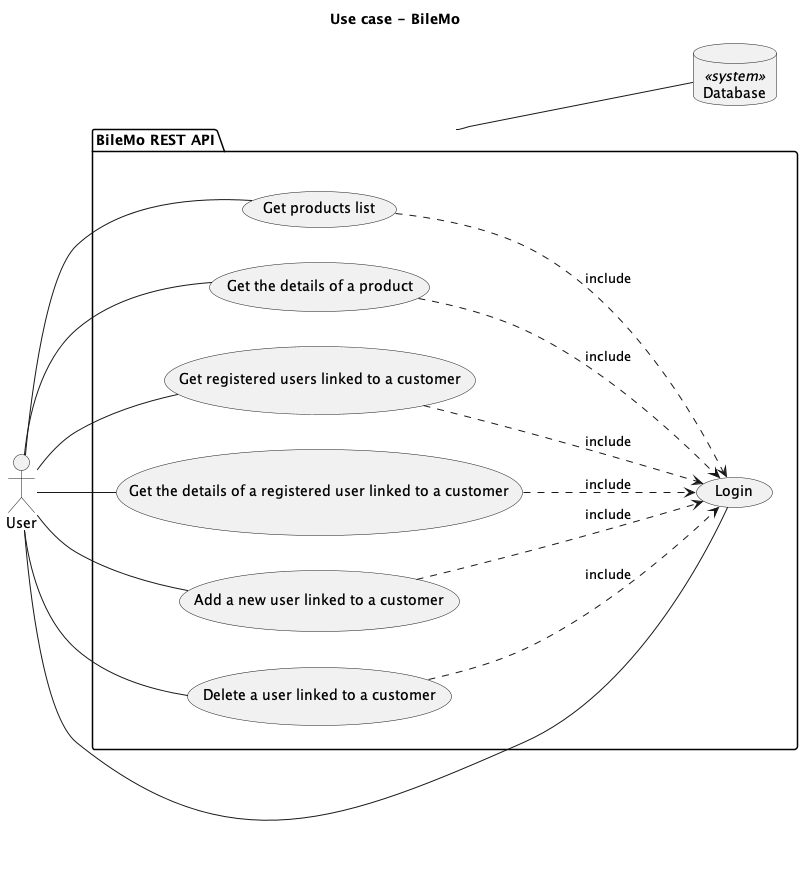
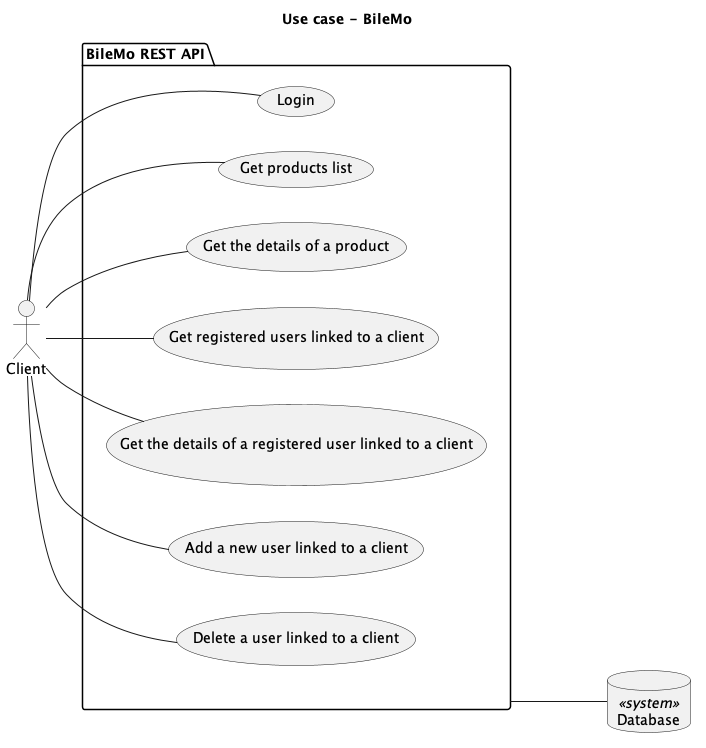
Refactor diagrams

diff --git a/docs/class/class.md b/docs/class/class.md
@@ -1,23 +1,20 @@
 ```mermaid
 classDiagram
 
-class User {
+class Client {
     -Ulid id
     -String email
     -String password
-    -String|null plainPassword
-    
-    +addCustomer(): User
-    +deleteCustomer(Ulid id): void
+    -String plainPassword
 }
 
-class Customer {
+class User {
     -Ulid id
     -String username
     -String email
     -String url
-    -Datetime created_at
-    -Datetime|null updated_at
+    -Datetime createdAt
+    -Datetime|null updatedAt
 }
 
 class Product {
@@ -29,6 +26,6 @@ class Product {
     -Number price
 }
 
-User "1"*--"0..n" Customer
+Client "1"*--"0..n" User
 ```
 

diff --git a/docs/sequence/add_user.md b/docs/sequence/add_user.md
@@ -1,13 +1,13 @@
 ```mermaid
 sequenceDiagram
-title Get the details of a registered user linked to a customer
+title Add a new user attached to a client
 
-Client->>+API: POST /users/{ulid}/customers
+Client->>+API: POST /clients/{ulid}/users
 
 API->>API: Verify json web token
 API->>API: Validate datas sent
 
-API->>Database: Add a new customer
+API->>Database: Store the created user
 
 API-->>-Client: 201 Created
 ```

diff --git a/docs/sequence/get_user_details.md b/docs/sequence/get_user_details.md
@@ -1,0 +1,14 @@
+```mermaid
+sequenceDiagram
+title Get the details of a registered user linked to a client
+
+Client->>+API: GET /clients/{ulid}/users/{user_ulid}
+
+
+API->>API: Verify json web token
+
+API->>Database: Get the user details
+Database-->>API: Return the user details
+
+API-->>-Client: Return json containing the user details
+```

diff --git a/docs/sequence/get_users.md b/docs/sequence/get_users.md
@@ -1,0 +1,13 @@
+```mermaid
+sequenceDiagram
+title Get users linked to a client
+
+Client->>+API: GET /clients/{ulid}/users
+
+API->>API: Verify json web token
+
+API->>Database: Get the users linked to the user
+Database-->>API: Return users 
+
+API-->>-Client: Return json containing the users
+```

diff --git a/docs/sequence/remove_user.md b/docs/sequence/remove_user.md
@@ -1,8 +1,8 @@
 ```mermaid
 sequenceDiagram
-title Get the details of a registered user linked to a customer
+title Delete a user
 
-Client->>+API: DELETE /users/{ulid}/customers/{customer_ulid}
+Client->>+API: DELETE /clients/{ulid}/users/{user_ulid}
 
 API->>API: Verify json web token
 
